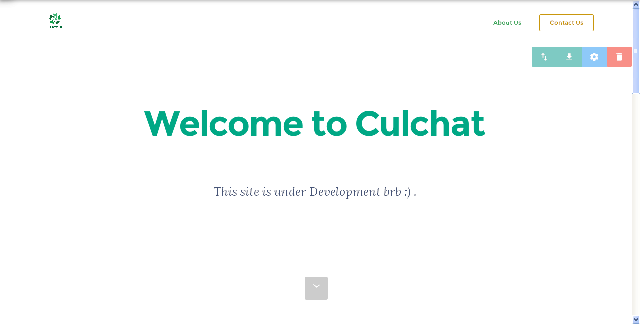
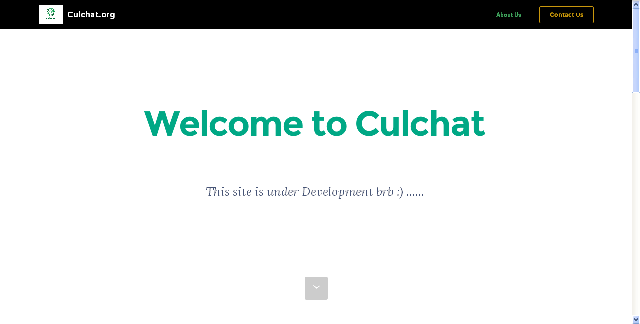
Add files via upload

Changed region(s): [[0.0, 0.0, 1.0, 0.0926], [0.8125, 0.1235, 1.0, 0.216], [0.3125, 0.5556, 0.6562, 0.6173]]

diff --git a/index.html b/index.html
@@ -57,7 +57,7 @@
 
 </section>
 
-<section class="engine"><a rel="external" href="https://mobirise.com">best html web site development</a></section><section class="mbr-section mbr-section-hero mbr-section-full mbr-section-with-arrow mbr-after-navbar" id="header1-1" style="background-color: rgb(255, 255, 255);">
+<section class="engine"><a rel="external" href="https://mobirise.com">simple drag and drop web site creator software</a></section><section class="mbr-section mbr-section-hero mbr-section-full mbr-section-with-arrow mbr-after-navbar" id="header1-1" style="background-color: rgb(255, 255, 255);">
 
     
 
@@ -68,7 +68,7 @@
                 <div class="mbr-section col-md-10 col-md-offset-1 text-xs-center">
 
                     <h1 class="mbr-section-title display-1"><p>Welcome to Culchat<br><br></p></h1>
-                    <p class="mbr-section-lead lead">This site is under Development brb :) .</p>
+                    <p class="mbr-section-lead lead">This site is under Development brb :) ......</p>
                     
                 </div>
             </div>
@@ -140,7 +140,7 @@
             <div class="row">
                 <div class="col-xs-12 text-xs-center">
                     <h3 class="mbr-section-title display-2">CONTACT FORM</h3>
-                    <small class="mbr-section-subtitle">Shape your future web project with sharp design and refine coded functions.</small>
+                    <small class="mbr-section-subtitle">Hai there, before you send, if you would prefer to discuss in person or over the phone or skype , Please include the necessary details in your message and i will get back to you soon as possible .</small>
                 </div>
             </div>
         </div>
@@ -158,7 +158,7 @@
 
                     <form action="https://mobirise.com/" method="post" data-form-title="CONTACT FORM">
 
[2 lines of base64/hex data omitted]
 
                         <div class="row row-sm-offset">
 

diff --git a/assets/mobirise/css/mbr-additional.css b/assets/mobirise/css/mbr-additional.css
@@ -1,6 +1,8 @@
+@import url(https://fonts.googleapis.com/css?family=Roboto:400,300,700);
 @import url(https://fonts.googleapis.com/css?family=Montserrat:400,700);
 @import url(https://fonts.googleapis.com/css?family=Lora:400,700);
 @import url(https://fonts.googleapis.com/css?family=Raleway:400,300,700);
+
 
 
 
@@ -423,6 +425,7 @@ h6,
 #menu-0 .link,
 #menu-0 .dropdown-item {
   color: #41a85f;
+  font-family: 'Roboto', sans-serif;
 }
 #menu-0 .link {
   font-size: 0.75rem;
@@ -439,19 +442,19 @@ h6,
 }
 #menu-0 .link[aria-expanded="true"],
 #menu-0 .dropdown-menu {
-  background: #0e0e0e;
+  background: #000000;
 }
 #menu-0 .nav-dropdown-sm .link:focus,
 #menu-0 .nav-dropdown-sm .link:hover,
 #menu-0 .nav-dropdown-sm .dropdown-item:focus,
 #menu-0 .nav-dropdown-sm .dropdown-item:hover {
-  background: #202020!important;
+  background: #000000!important;
 }
 #menu-0 .navbar,
 #menu-0 .nav-dropdown-sm,
 #menu-0 .nav-dropdown-sm .link[aria-expanded="true"],
 #menu-0 .nav-dropdown-sm .dropdown-menu {
-  background: #282828;
+  background: #000000;
 }
 #menu-0 .bg-color.transparent .link {
   color: #41a85f;
